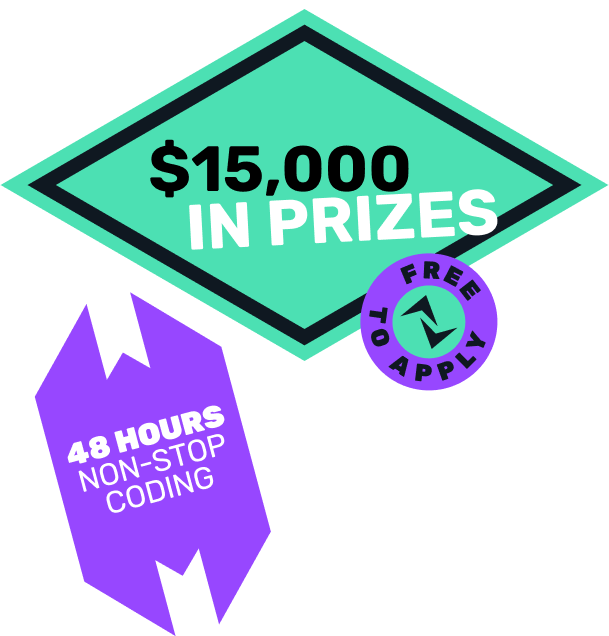
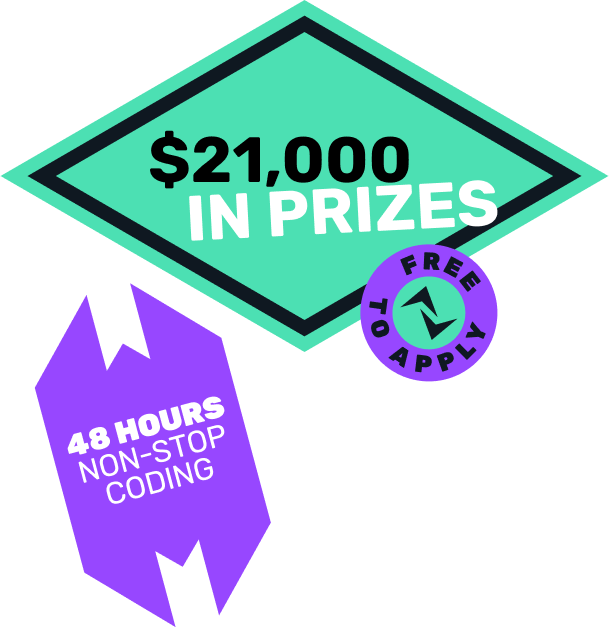
Add Renfter to hackathpn sponsors

diff --git a/components/hackathon/prizes/prizes.js b/components/hackathon/prizes/prizes.js
@@ -4,7 +4,7 @@ const Prizes = () => (
   <div className={styles.prizes}>
     <div className="container">
       <div className={styles.header}>
-        <p className={styles.totalAmount}>$16,000</p>
+        <p className={styles.totalAmount}>$21,000</p>
         <p className={styles.prizeTitle}>Available in prizes</p>
       </div>
       <div>
@@ -14,8 +14,22 @@ const Prizes = () => (
             <p className={styles.prizeAmount}>$15,000</p>
           </div>
           <div className={styles.prize}>
+            <img src="/images/partners/renfter-logo.svg" alt="Renfter logo"/>
+            <p className={styles.prizeAmount}>$5,000</p>
+          </div>
+        </div>
+        <div className={styles.row}>
+          <div className={styles.prize}>
             <img src="/images/partners/taikai.svg" alt="TAIKAI logo"/>
-            <p className={styles.prizeAmount}>$1,000</p>
+            <p className={styles.prizeAmount}>$15,000</p>
+          </div>
+          <div className={styles.prize}>
+            {/*<img src="/images/partners/renfter-logo.svg" alt="RENFTER logo"/>*/}
+            <p className={styles.prizeAmount}>Coming soon</p>
+          </div>
+          <div className={styles.prize}>
+            {/*<img src="/images/partners/renfter-logo.svg" alt="RENFTER logo"/>*/}
+            <p className={styles.prizeAmount}>Coming soon</p>
           </div>
         </div>
       </div>

diff --git a/components/hackathon/sponsors/sponsors.js b/components/hackathon/sponsors/sponsors.js
@@ -7,6 +7,11 @@ const Sponsors = () => (
         <p className={styles.title}>Sponsors</p>
         <div className={styles.sponsorList}>
           <div className={styles.sponsor}>
+            <a href="https://renfter.com/" target="_blank" rel="noreferrer noopener">
+              <img src="/images/partners/renfter-logo.svg" alt="Renfter logo" />
+            </a>
+          </div>
+          <div className={styles.sponsor}>
             <a href="https://taikai.network/" target="_blank" rel="noreferrer noopener">
               <img src="/images/partners/taikai.svg" alt="TAIKAI logo" />
             </a>

diff --git a/components/hackathon/prizes/prizes.module.scss b/components/hackathon/prizes/prizes.module.scss
@@ -41,6 +41,15 @@
   }
 }
 
+.row {
+  @extend .topRow;
+  grid-template-columns: 1fr 1fr 1fr;
+
+  @include breakpoint(tablet) {
+    grid-template-columns: 1fr 1fr;
+  }
+}
+
 .prize {
   text-align: center;
   padding: 68px 40px;

diff --git a/components/hackathon/sponsors/sponsors.module.scss b/components/hackathon/sponsors/sponsors.module.scss
@@ -14,8 +14,13 @@
 }
 
 .sponsorList {
-  display: grid;
+  //display: grid;
   //grid-template-columns: repeat(5, 1fr);
+
+  display: flex;
+  align-items: center;
+  justify-content: center;
+  gap: 40px;
 }
 
 .sponsor {
